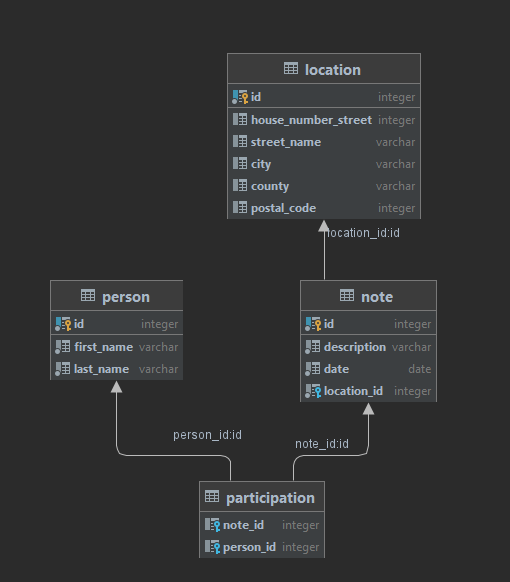
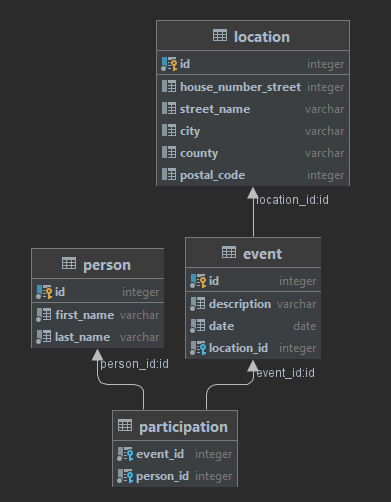
Updated database png in docs, added endpoints

Changed region(s): [[0.0614, 0.0299, 0.89, 0.9562], [0.399, 0.0299, 0.4297, 0.0598]]

diff --git a/api/main.py b/api/main.py
@@ -54,11 +54,40 @@ async def get_location(location_id: int, db: Session = Depends(get_db)):
 
 @app.delete("/location/{location_id}", status_code=200)
 async def get_location(location_id: int, db: Session = Depends(get_db)):
+    # add check if event with location exists
     db_location = crud.get_location_by_id(db=db, location_id=location_id)
     if not db_location:
         raise HTTPException(status_code=404, detail="Location not exists")
     crud.delete_location_by_id(db=db, location_id=location_id)
     db_location = crud.get_location_by_id(db=db, location_id=location_id)
     if db_location:
-        raise HTTPException(status_code=500, detail="Impossible to delete location")
+        raise HTTPException(status_code=500, detail="Location not deleted")
     return status.HTTP_200_OK
+
+
+@app.put("/person", status_code=201)
+async def create_person(person: schemas.Person, db: Session = Depends(get_db)):
+    # add check if event with person exists
+    db_person = crud.get_person_by_all_infos(db=db, person=person)
+    if db_person:
+        raise HTTPException(status_code=400, detail="Person already exists")
+    db_person = crud.create_person(db=db, person=person)
+    if not db_person:
+        raise HTTPException(status_code=500, detail="Person not created")
+    return status.HTTP_201_CREATED
+
+
+@app.get("/person", response_model=schemas.PersonResponse)
+async def get_person_by_all_infos(person: schemas.Person, db: Session = Depends(get_db)):
+    db_person = crud.get_person_by_all_infos(db=db, person=person)
+    if not db_person:
+        raise HTTPException(status_code=404, detail="Person not exists")
+    return db_person
+
+
+@app.get("/person/{person_id}", response_model=schemas.PersonResponse)
+async def get_person_by_id(person_id: int, db: Session = Depends(get_db)):
+    db_person = crud.get_person_by_id(db=db, person_id=person_id)
+    if not db_person:
+        raise HTTPException(status_code=404, detail="Person not exists")
+    return db_person

diff --git a/api/modules/crud.py b/api/modules/crud.py
@@ -34,3 +34,24 @@ def delete_location_by_id(db: Session, location_id: int):
     db.delete(db_user)
     db.commit()
     return True
+
+
+def create_person(db: Session, person: schemas.Person):
+    db_person = models.Person(
+        first_name=person.first_name,
+        last_name=person.last_name
+    )
+    db.add(db_person)
+    db.commit()
+    db.refresh(db_person)
+    return db_person
+
+
+def get_person_by_all_infos(db: Session, person: schemas.Person):
+    return db.query(models.Person).filter(models.Person.first_name == person.first_name) \
+                                  .filter(models.Person.last_name == person.last_name) \
+                                  .first()
+
+
+def get_person_by_id(db: Session, person_id: int):
+    return db.query(models.Person).filter(models.Person.id == person_id).first()

diff --git a/api/modules/schemas.py b/api/modules/schemas.py
@@ -14,3 +14,16 @@ class LocationResponse(Location):
 
     class Config:
         orm_mode = True
+
+
+class Person(BaseModel):
+    first_name: str
+    last_name: str
+
+
+class PersonResponse(Person):
+    id: int
+
+    class Config:
+        orm_mode = True
+
